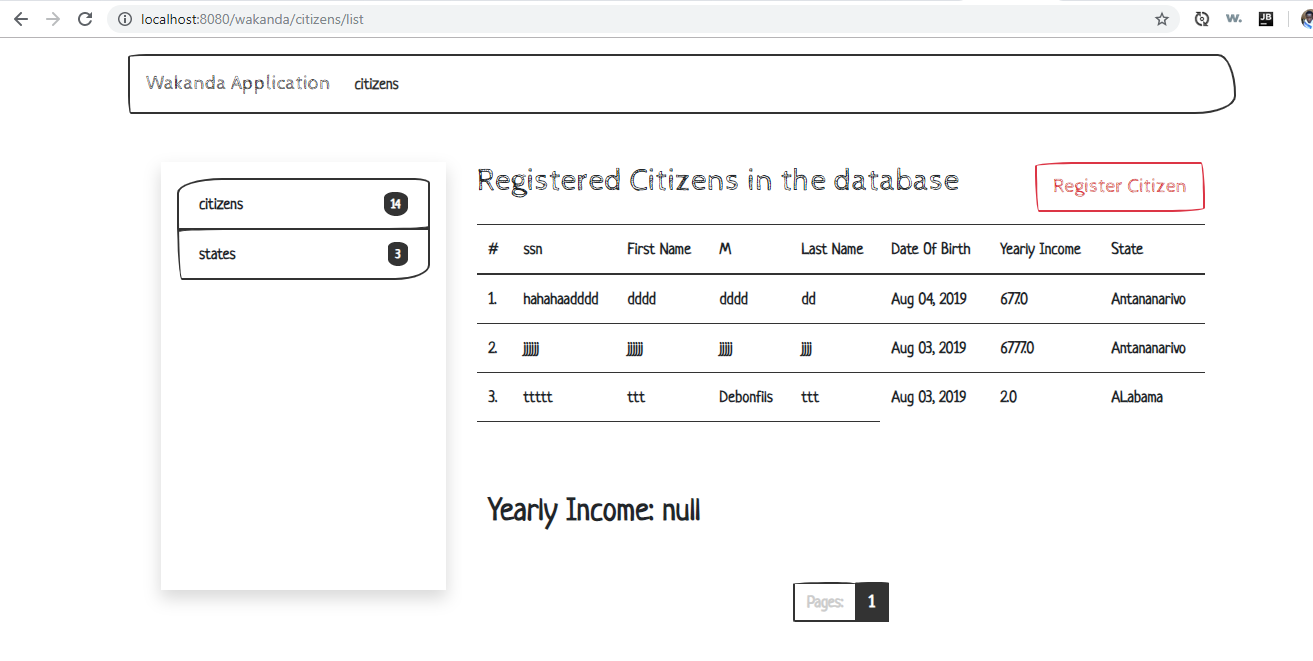
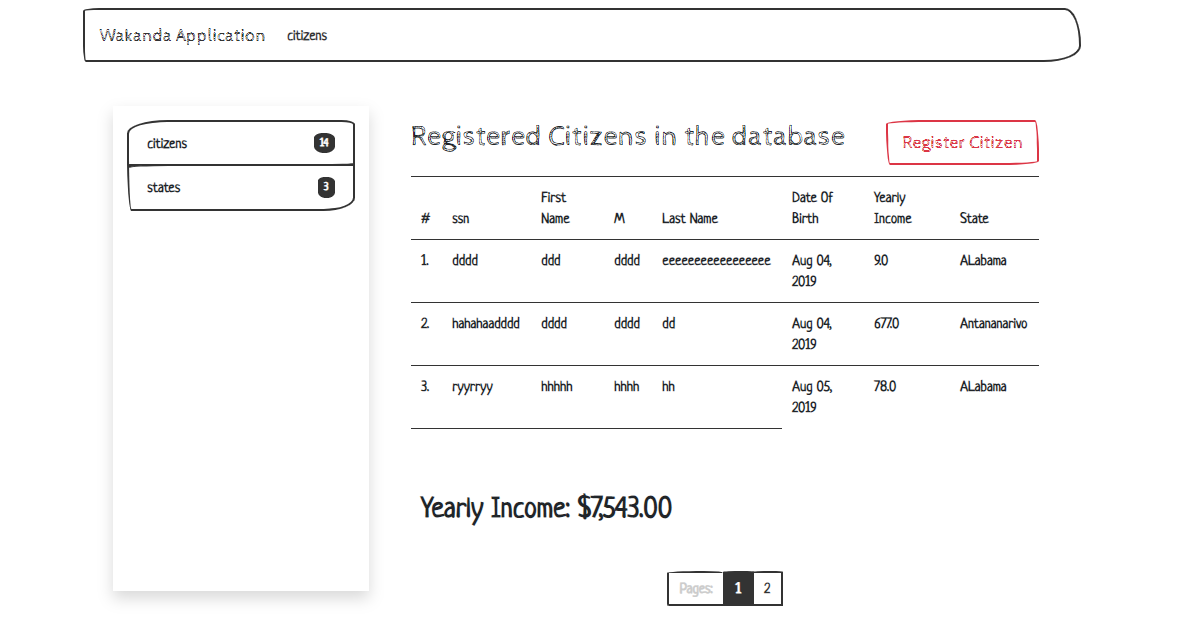
Commited the screenshot showing total yearly income. The project was working fine but the screenshots had not been updated

diff --git a/src/main/resources/templates/index.html b/src/main/resources/templates/index.html
@@ -4,6 +4,7 @@
     <meta charset="UTF-8"/>
     <title>Wakanda Application</title>
     <link href="https://stackpath.bootstrapcdn.com/bootswatch/4.3.1/sketchy/bootstrap.min.css" rel="stylesheet" integrity="sha384-N8DsABZCqc1XWbg/bAlIDk7AS/yNzT5fcKzg/TwfmTuUqZhGquVmpb5VvfmLcMzp" crossorigin="anonymous"/>
+<!--    <link href="https://stackpath.bootstrapcdn.com/bootswatch/4.3.1/simplex/bootstrap.min.css" rel="stylesheet" integrity="sha384-1OYccka9EByiS23wvPFiYHBPRAgU91xYVFb8g8sen6vRiBI5Uko6+B87q8zPGUnA" crossorigin="anonymous">-->
 </head>
 <body>
 
@@ -16,7 +17,7 @@
             </div>
 
         </div>
-        <div class="col-5 bg-white">
+        <div class="col-8 bg-white">
             <h1>HomePage</h1>
             Lorem ipsum dolor sit amet, consectetur adipisicing elit. Ab adipisci aliquid aut, beatae consequatur, deleniti distinctio ea eius eligendi enim excepturi fugit harum hic id illo in incidunt inventore iste laboriosam magnam minima obcaecati officiis placeat quisquam quod ratione repellat repudiandae temporibus veniam voluptas. Ab, alias assumenda at culpa cum deserunt dolor doloribus et explicabo incidunt iure iusto libero nam natus nesciunt nobis nostrum porro provident quia reprehenderit, similique, totam ullam ut voluptatem voluptatum. Dolor et fugit in quasi sunt!
         </div>

diff --git a/src/main/resources/templates/citizens/add.html b/src/main/resources/templates/citizens/add.html
@@ -4,6 +4,7 @@
     <meta charset="UTF-8"/>
     <title>Supplier Relationship Application</title>
     <link href="https://stackpath.bootstrapcdn.com/bootswatch/4.3.1/sketchy/bootstrap.min.css" rel="stylesheet" integrity="sha384-N8DsABZCqc1XWbg/bAlIDk7AS/yNzT5fcKzg/TwfmTuUqZhGquVmpb5VvfmLcMzp" crossorigin="anonymous"/>
+<!--    <link href="https://stackpath.bootstrapcdn.com/bootswatch/4.3.1/simplex/bootstrap.min.css" rel="stylesheet" integrity="sha384-1OYccka9EByiS23wvPFiYHBPRAgU91xYVFb8g8sen6vRiBI5Uko6+B87q8zPGUnA" crossorigin="anonymous">-->
 </head>
 <body>
 
@@ -16,7 +17,8 @@
             </div>
 
         </div>
-        <div class="col-7 bg-white">
+        <div class="col-8 bg-white">
+            <div class="container  mt-3 mb-3">
             <form id="registerPostForm" method="post" action="/wakanda/new/post" th:object="${citizen}">
                 <fieldset>
                     <legend>Register New Citizen</legend>
@@ -107,7 +109,7 @@
                 </fieldset>
             </form>
         </div>
-
+        </div>
     </div>
 </div>
 

diff --git a/src/main/resources/templates/citizens/list.html b/src/main/resources/templates/citizens/list.html
@@ -4,6 +4,7 @@
     <meta charset="UTF-8"/>
     <title>Wakanda Application</title>
     <link href="https://stackpath.bootstrapcdn.com/bootswatch/4.3.1/sketchy/bootstrap.min.css" rel="stylesheet" integrity="sha384-N8DsABZCqc1XWbg/bAlIDk7AS/yNzT5fcKzg/TwfmTuUqZhGquVmpb5VvfmLcMzp" crossorigin="anonymous"/>
+<!--    <link href="https://stackpath.bootstrapcdn.com/bootswatch/4.3.1/simplex/bootstrap.min.css" rel="stylesheet" integrity="sha384-1OYccka9EByiS23wvPFiYHBPRAgU91xYVFb8g8sen6vRiBI5Uko6+B87q8zPGUnA" crossorigin="anonymous">-->
 </head>
 <body>
 
@@ -16,6 +17,7 @@
             </div>
         </div>
         <div class="col-8 bg-white">
+            <div class="container mt-3 mb-3">
             <h2 class="mb-4">Registered Citizens in the database
                  <a href="/wakanda/new" class="btn btn-outline-danger btn-lg float-right">Register Citizen</a>
             </h2>
@@ -65,7 +67,7 @@
                     </li>
                 </ul>
             </div>
-
+        </div>
         </div>
     </div>
 </div>
